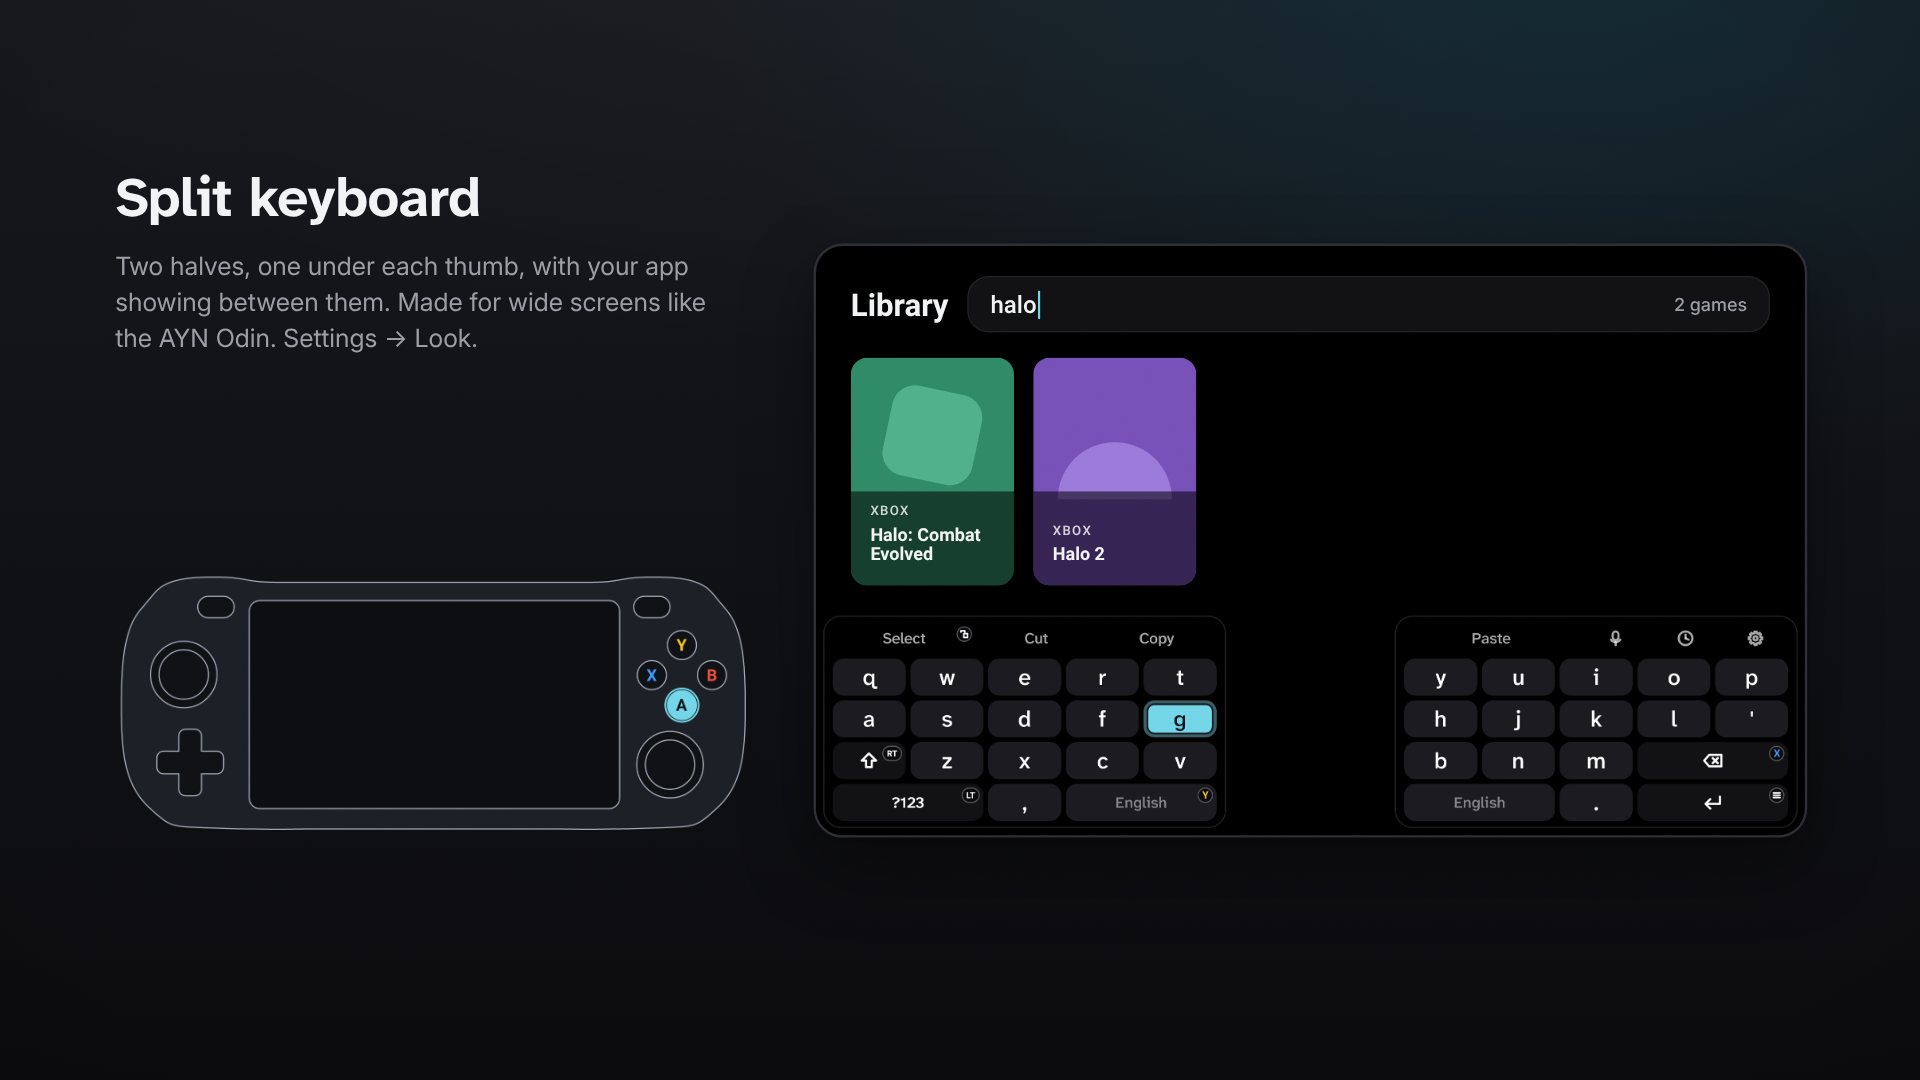
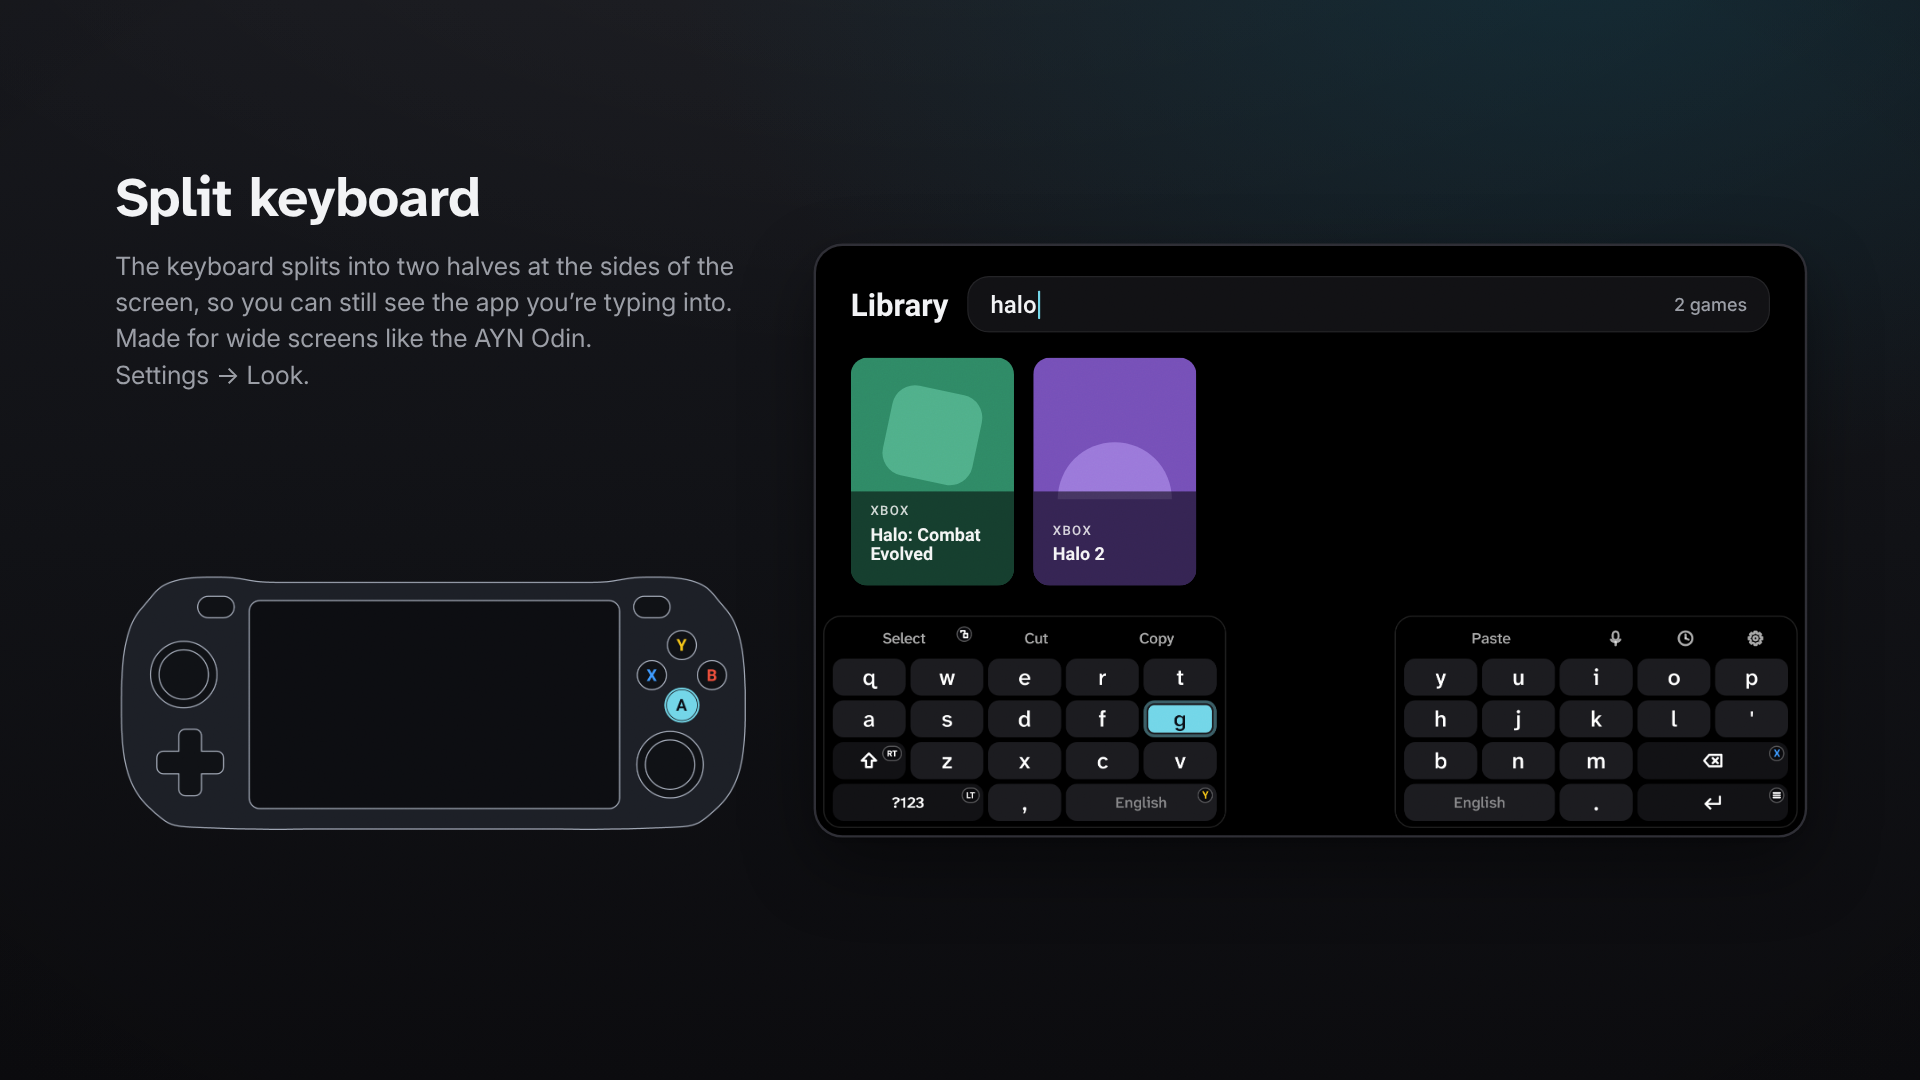
Split wording: the sides of the screen, not thumbs

Changed region(s): [[0.0625, 0.2444, 0.375, 0.3667]]

diff --git a/docs/visuals-src/features.js b/docs/visuals-src/features.js
@@ -65,7 +65,7 @@ const FEATURES={
   tour:{layout:'top',title:'A tour you play',body:'Learn every button by typing a few game names, one small step at a time. What\u2019s new follows each update.',
     content:()=>`<img class="abs shot m" src="renders/screen-tour13.png" style="left:260px;top:240px;width:1080px">`},
   // 1.3.0 (8 Nov 2026)
-  split:{layout:'stage',textY:140,title:'Split keyboard',body:'Two halves, one under each thumb, with your app showing between them. Made for wide screens like the AYN Odin. Settings \u2192 Look.',
+  split:{layout:'stage',textY:140,title:'Split keyboard',body:'The keyboard splits into two halves at the sides of the screen, so you can still see the app you\u2019re typing into. Made for wide screens like the AYN Odin. Settings\u00a0\u2192\u00a0Look.',
     pic:'pic-split',screen:{kb:'renders/kb-split.png',kbAspect:2481/552,field:{before:'halo'}}},
   buttons:{layout:'top',title:'Show Inlay your buttons',body:'Press your four face buttons once, then pick which one selects and which goes back. Any controller, swapped or not, each with its own setup.',
     content:()=>`<img class="abs shot m" src="renders/screen-buttons.png" style="left:260px;top:240px;width:1080px">`},

diff --git a/app/src/main/java/com/example/gridime/KeyboardSettings.kt b/app/src/main/java/com/example/gridime/KeyboardSettings.kt
@@ -321,7 +321,7 @@ data class KeyboardSettings(
     val wordSuggestions: Boolean = true, // words in the tool strip while typing (R3 takes the first)
     val holdAccents: Boolean = true,     // hold A on a letter for its accents
     val numberRow: Boolean = false,      // a slim row of 1 to 0 above the letters
-    val split: Boolean = false,          // Split: two windows, one under each thumb (wide screens only, never in TV mode)
+    val split: Boolean = false,          // Split: two windows, one at each side of the screen (wide screens only, never in TV mode)
     val picture: PictureChoice = PictureChoice.AUTO,   // which device the tour, What's new and Button guide show
     val verticalSticks: Boolean = false,  // a vertical handheld that does have sticks
     val swapFaceButtons: Boolean = false, // the device reports A/B and X/Y by printed letter (Nintendo layout): see FaceButtons

diff --git a/app/src/main/java/com/example/gridime/TutorialActivity.kt b/app/src/main/java/com/example/gridime/TutorialActivity.kt
@@ -241,7 +241,7 @@ class TutorialActivity : Activity(), KeyGridView.Listener {
                 "Learn every button by typing a few game names, one small step at a time. Replay it any time in Settings\u00A0\u2192 About.",
                 emptyList(), Demo.MORE, For.CONTROLLER, scene = WhatsNewShowcase.Scene.TOUR),
             Page("Split keyboard",
-                "Two halves, one under each thumb, with your app showing in between. Turn it on in Settings\u00A0\u2192 Look." +
+                "Two halves at the sides of the screen, so you still see the app you're typing into. Turn it on in Settings\u00A0\u2192 Look." +
                     if (SplitRoom.splitPossible(this, settings.language)) "" else " It needs a wide screen held sideways.",
                 emptyList(), Demo.MORE, For.CONTROLLER, scene = WhatsNewShowcase.Scene.SPLIT),
             Page("Show Inlay your buttons",

diff --git a/app/src/main/java/com/example/gridime/SettingsActivity.kt b/app/src/main/java/com/example/gridime/SettingsActivity.kt
@@ -1355,7 +1355,7 @@ class SettingsActivity : Activity() {
             },
             // Only where it fits: wide screens held sideways. TV mode keeps its own floating keyboard.
             if (!SplitRoom.splitPossible(this, settings.language)) null else ToggleRow(this, "Split",
-                "Two halves, one under each thumb. Not in TV mode", settings.split) {
+                "Two halves at the sides of the screen. Not in TV mode", settings.split) {
                 update(settings.copy(split = it))
             },
             // Android 13 and newer draw an empty strip under keyboards (a hide arrow and a keyboard switcher)

diff --git a/app/src/main/java/com/example/gridime/KeyGridView.kt b/app/src/main/java/com/example/gridime/KeyGridView.kt
@@ -1751,7 +1751,7 @@ class KeyGridView(context: Context) : View(context) {
     }
 
     // =====================================================================
-    // SPLIT: two windows, one under each thumb
+    // SPLIT: two windows, one at each side of the screen
     // =====================================================================
     /**
      * Split shows only where it fits: wide screens held sideways, never in TV mode (TV has its own floating panel).

diff --git a/CHANGELOG.md b/CHANGELOG.md
@@ -6,7 +6,7 @@ A new welcome tour that teaches every button by typing, a split keyboard for wid
 
 **New**
 - **A new welcome tour.** You learn the controller by typing a few game names, one small turn at a time: a capital Z for Zelda, deleting the extra d in Metroidd, an accent for Pokémon, copying, undo and more. Each button shows up right on the key it works on. Nothing is blocked: a slip really types, the card says how to put it right, and help only comes if you've been stuck a while. The last page offers a second go at anything that took a few tries. Replay it any time in Settings → About.
-- **Split keyboard.** Two halves, one under each thumb, with your app showing between them. Settings → Look. Only on screens wide enough for it, and not in TV mode. In Split, long language names show as their code on the space bar (SV · FI, PT, UK).
+- **Split keyboard.** The keyboard splits into two halves at the sides of the screen, so you can still see the app you're typing into. Settings → Look. Only on screens wide enough for it, and not in TV mode. In Split, long language names show as their code on the space bar (SV · FI, PT, UK).
 - **Show Inlay your buttons.** Press your four face buttons once (left, top, right, bottom), then pick which one selects and which one goes back. Delete and Space take the other two. It works with any controller, swapped or not, and each controller keeps its own setup. Settings → Device → Your buttons. It replaces Swap A/B and X/Y and the Typing button setting; what you had set is brought across.
 - **Find any setting.** RB in Settings, or the Find pill at the top. It always types in English, and a held D-pad repeats.
 - **Quick symbols.** Hold LT, press A on a symbol and let go: you're back on the letter you were on, like RT for one capital. A tap on LT still swaps to the symbols as before. And hold A on a symbol for its relatives: € gives $ £ ¥, - gives – and —, " gives “ ” „ « », plus ¿ ¡ ± ≠ °.

diff --git a/README.md b/README.md
@@ -106,7 +106,7 @@ The welcome tour opens the first time, and you can replay it any time from **Abo
 | **Every button has a job** | A types, X deletes (hold to speed up), Y is space, Start is enter. LB and RB move the cursor, RT is shift, LT is symbols, and the right stick moves the cursor too. See [Controls](#controls). |
 | **Word suggestions that learn** | Words you probably mean show in the top row as you type. Press the right stick in for the first, or move up and pick one. It learns the names and titles you use, and only keeps a word once you've really typed it. |
 | **Hold A for accents** | Hold A on a letter and its accents rise into the top row: let go on the one you want. Hold the full stop for punctuation (, ? ! ' " : ; …), and .com in web addresses for other endings like .net, .org and your language's own. |
-| **Split keyboard** | Two halves, one under each thumb, with your app showing between them. On screens wide enough for it. |
+| **Split keyboard** | The keyboard splits into two halves at the sides of the screen, so you can still see the app you're typing into. On screens wide enough for it. |
 | **Your buttons** | Show Inlay your four face buttons once and pick which one selects and which goes back. Works with any controller, swapped or not, and each controller keeps its own. |
 | **A tour you play** | The welcome tour teaches every button by typing a few game names, with each button shown on the key it works on. |
 | **Hold RT for more** | Small tips appear on the keys: a capital letter, word jumps, accents and undo. Nothing to memorise. |
